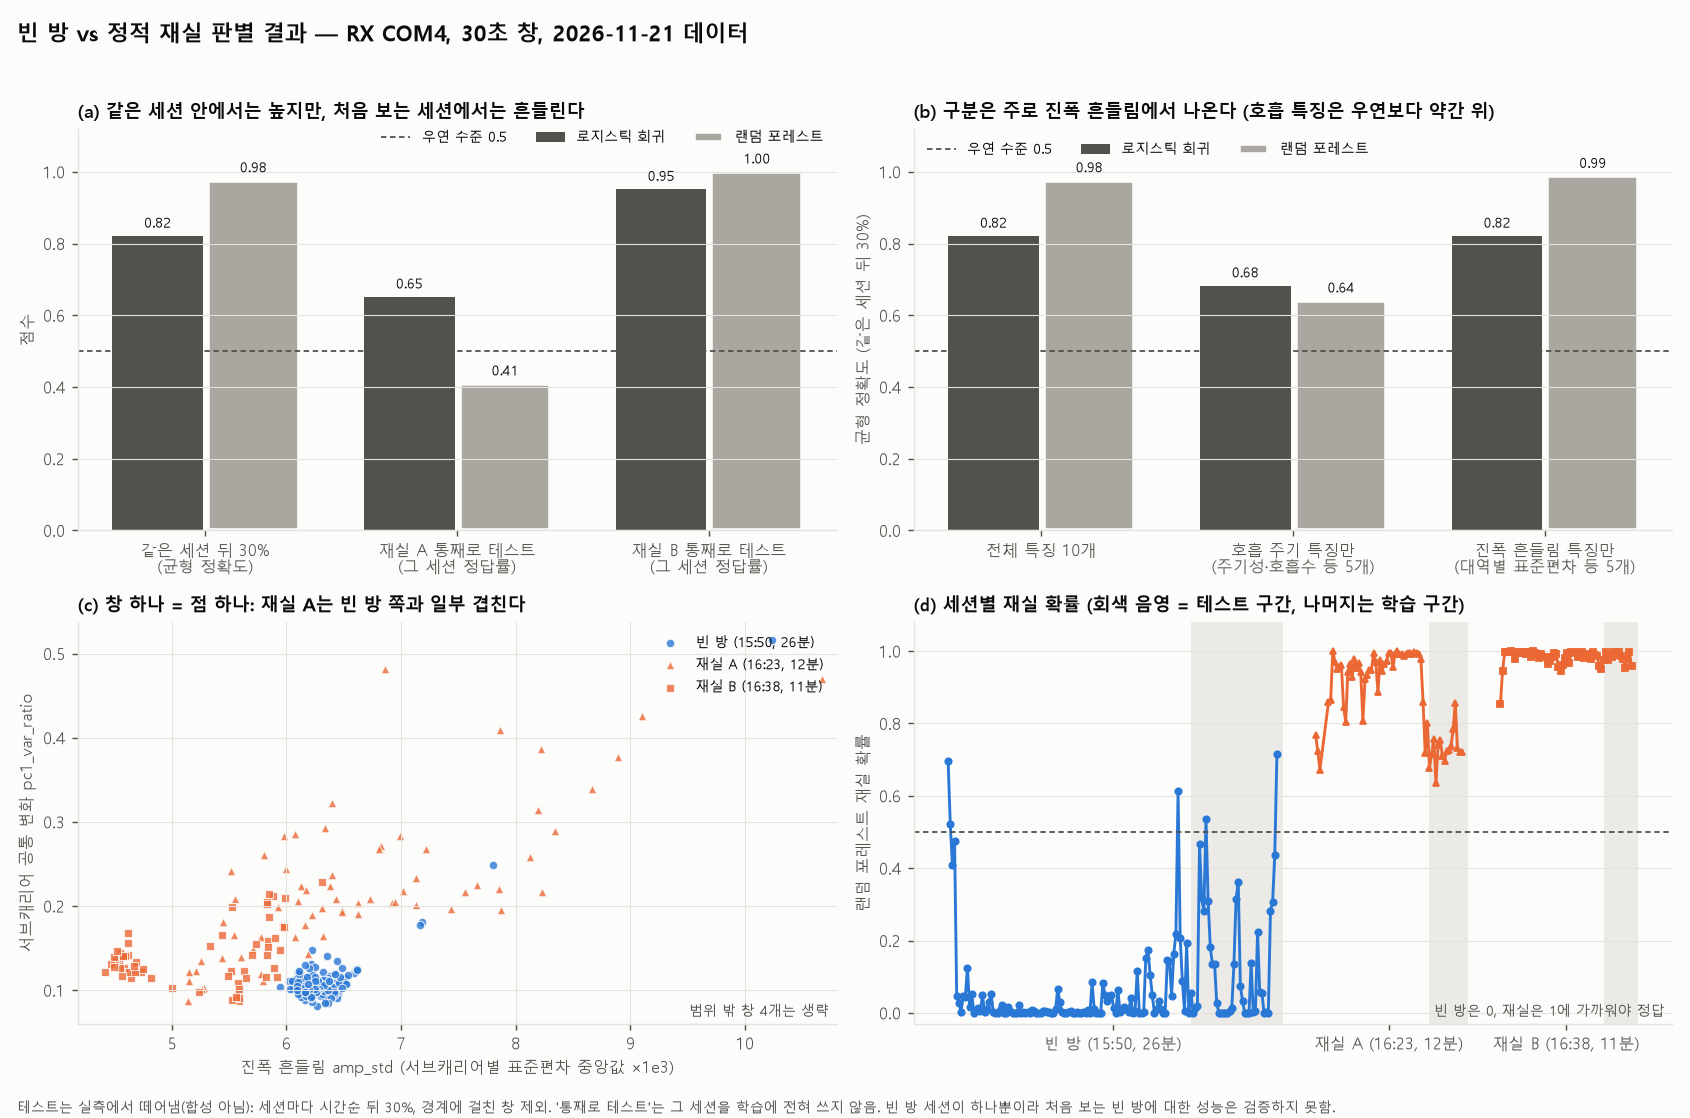
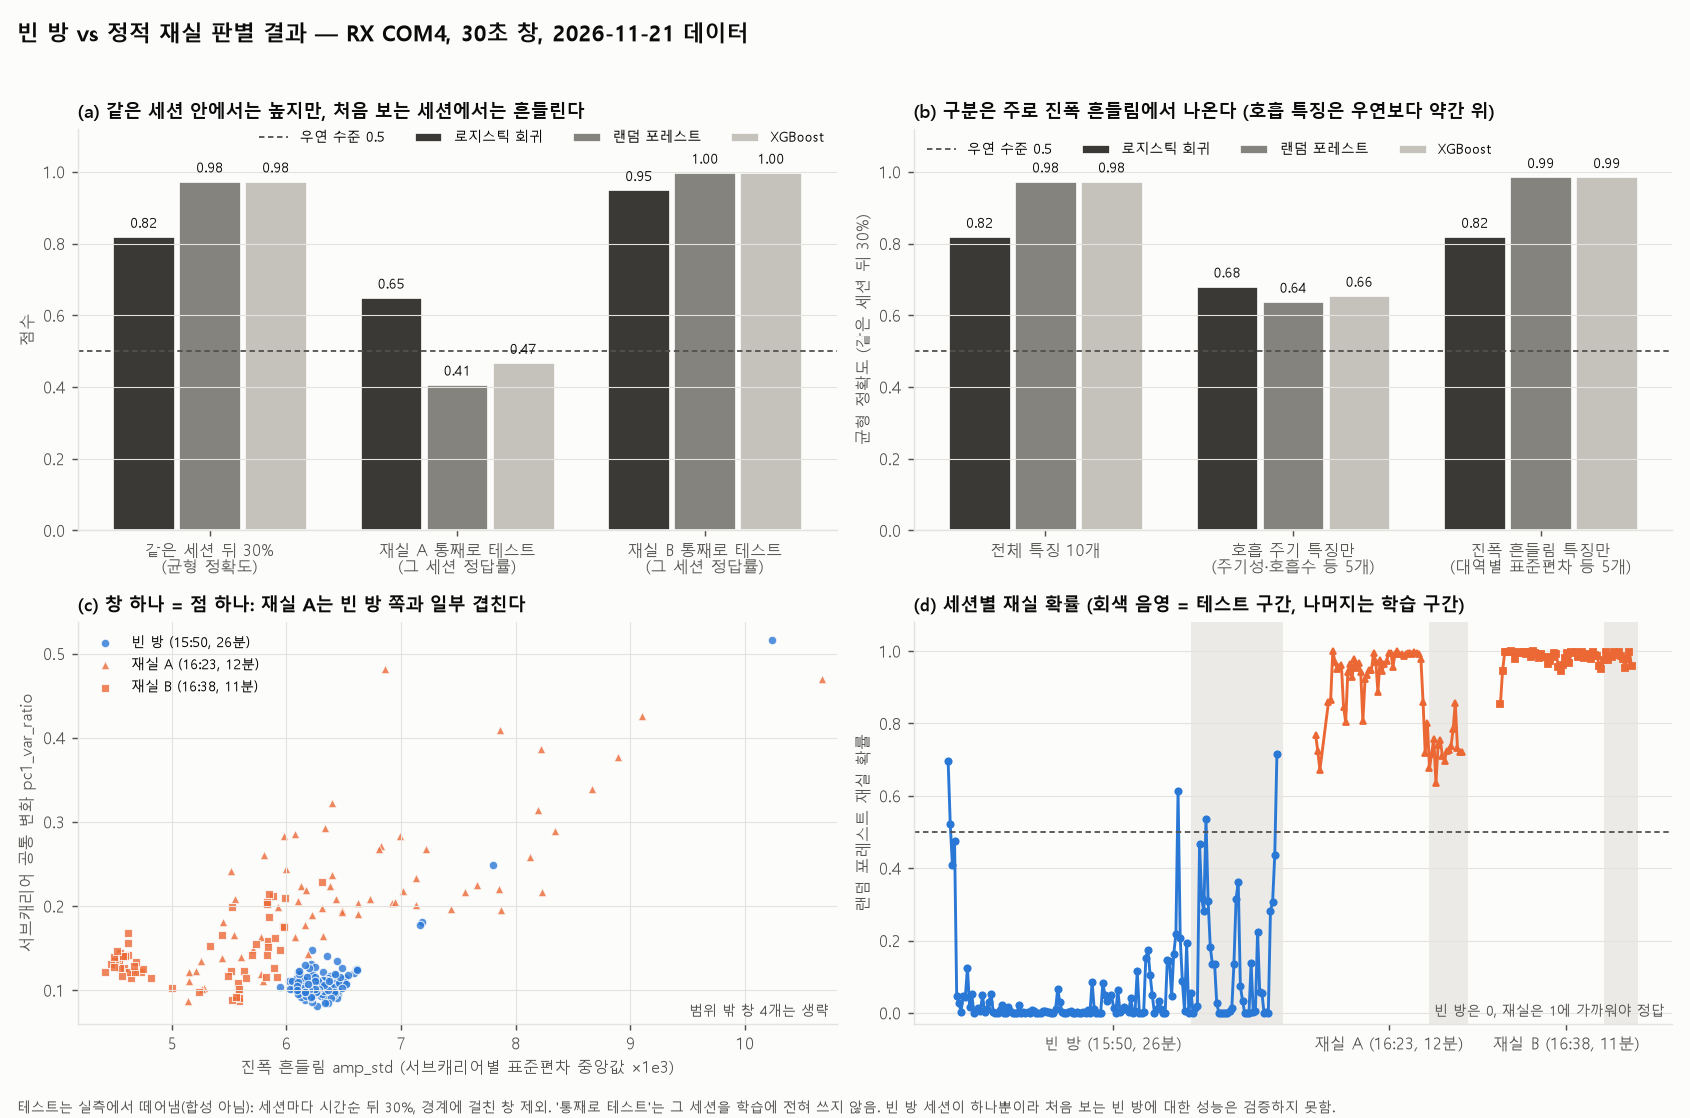
docs: 결과 그림 수정 (XGBoost 추가, 표기·범례 정리)
- model_results.png: (a)·(b)에 XGBoost 막대 추가(train.MODEL_KEYS 기준), (c) 범례를 빈 곳으로
- denoise_compare.png: 제목 RX 표기를 "(a)~(c) COM4, (d) COM5"로
- preprocess_compare.png: (d) 범례를 그래프 위로, (f) 좁은 칸 글자 제거하고 원본 라벨→클래스 대응을 축 이름에

diff --git a/pc/plot_results.py b/pc/plot_results.py
@@ -25,12 +25,13 @@ import pandas as pd
 from sklearn.metrics import balanced_accuracy_score
 
 from features import FEATURES
-from train import FEATURE_SETS, ROOT, models, temporal_split
+from train import FEATURE_SETS, MODEL_KEYS, ROOT, models, temporal_split
 
 # 팔레트 (dataviz 기본, light): 클래스 = slot1 blue(빈 방) / slot2 orange(재실). 모델은 잉크 명암으로 구분
 C_EMPTY, C_STATIC = "#2a78d6", "#eb6834"
 INK, INK2, GRID, SURF = "#0b0b0b", "#52514e", "#e4e3df", "#fcfcfb"
-C_LR, C_RF, C_BASE = "#52514e", "#a9a7a0", "#d6d4cd"
+# 모델 막대 색 (잉크 명암 3단계, 클래스 색과 겹치지 않게)
+MODEL_COLOR = {"로지스틱 회귀": "#3a3936", "랜덤 포레스트": "#85837d", "XGBoost": "#c4c2bb"}
 SESSION_NAME = {"20261121_155026": "빈 방 (15:50, 26분)",
                 "20261121_162338": "재실 A (16:23, 12분)",
                 "20261121_163812_breath": "재실 B (16:38, 11분)"}
@@ -65,7 +66,18 @@ def bar_labels(ax, bars, fmt="{:.2f}"):
     for b in bars:
         h = b.get_height()
         ax.text(b.get_x() + b.get_width() / 2, h + 0.015, fmt.format(h), ha="center", va="bottom",
-                fontsize=8, color=INK)
+                fontsize=7.5, color=INK)
+
+
+def grouped_bars(ax, vals: dict[str, list[float]], n_groups: int) -> None:
+    """모델별 막대를 그룹마다 나란히. 막대 사이 2px 표면색 간격, 값 라벨."""
+    k = len(vals)
+    w = 0.8 / k
+    x = np.arange(n_groups)
+    for j, (name, v) in enumerate(vals.items()):
+        b = ax.bar(x + (j - (k - 1) / 2) * w, v, w * 0.95, color=MODEL_COLOR.get(name, INK2), label=name,
+                   edgecolor=SURF, linewidth=1.5)
+        bar_labels(ax, b)
 
 
 def main() -> None:
@@ -88,7 +100,8 @@ def main() -> None:
         tr2, te2 = temporal_split(df, 0.3, [s])
         mm = fit(tr2, FEATURES)
         g = te2[te2.session == s]
-        held[s] = {n: recall(mm[n], g, FEATURES) for n in ("로지스틱 회귀", "랜덤 포레스트")}
+        held[s] = {n: recall(mm[n], g, FEATURES) for n in MODEL_KEYS if n in mm}
+    names_m = [n for n in MODEL_KEYS if n in m_all]           # 그릴 모델 (xgboost가 없으면 2개)
 
     fig, axes = plt.subplots(2, 2, figsize=(13, 8.6))
     fig.suptitle(f"빈 방 vs 정적 재실 판별 결과 — RX {a.rx}, {win:g}초 창, 2026-11-21 데이터",
@@ -97,40 +110,33 @@ def main() -> None:
     # (a) 평가 방식별
     ax = axes[0, 0]
     groups = ["같은 세션 뒤 30%\n(균형 정확도)", "재실 A 통째로 테스트\n(그 세션 정답률)", "재실 B 통째로 테스트\n(그 세션 정답률)"]
-    lr = [bal(m_all["로지스틱 회귀"], te, FEATURES), held["20261121_162338"]["로지스틱 회귀"],
-          held["20261121_163812_breath"]["로지스틱 회귀"]]
-    rf = [bal(m_all["랜덤 포레스트"], te, FEATURES), held["20261121_162338"]["랜덤 포레스트"],
-          held["20261121_163812_breath"]["랜덤 포레스트"]]
-    x = np.arange(3)
-    b1 = ax.bar(x - 0.19, lr, 0.36, color=C_LR, label="로지스틱 회귀")
-    b2 = ax.bar(x + 0.19, rf, 0.36, color=C_RF, label="랜덤 포레스트", edgecolor=SURF, linewidth=2)
-    bar_labels(ax, b1); bar_labels(ax, b2)
+    vals = {n: [bal(m_all[n], te, FEATURES), held["20261121_162338"][n], held["20261121_163812_breath"][n]]
+            for n in names_m}
+    grouped_bars(ax, vals, len(groups))
     ax.axhline(0.5, color=INK2, lw=1, ls=(0, (3, 2)), label="우연 수준 0.5")
-    ax.set_xticks(x, groups)
+    ax.set_xticks(np.arange(len(groups)), groups)
     ax.set_ylim(0, 1.12)
     ax.set_ylabel("점수")
     ax.set_title("(a) 같은 세션 안에서는 높지만, 처음 보는 세션에서는 흔들린다")
-    ax.legend(loc="upper right", fontsize=8, ncol=3, bbox_to_anchor=(1, 1.03))
+    ax.legend(loc="upper right", fontsize=8, ncol=4, bbox_to_anchor=(1, 1.03))
     ax.grid(axis="y", color=GRID, lw=0.6)
 
     # (b) 특징 묶음별
     ax = axes[0, 1]
     names = list(FEATURE_SETS)
-    lr_b, rf_b = [], []
+    vals = {n: [] for n in names_m}
     for nm in names:
         mm = fit(tr, FEATURE_SETS[nm])
-        lr_b.append(bal(mm["로지스틱 회귀"], te, FEATURE_SETS[nm]))
-        rf_b.append(bal(mm["랜덤 포레스트"], te, FEATURE_SETS[nm]))
+        for n in names_m:
+            vals[n].append(bal(mm[n], te, FEATURE_SETS[nm]))
     x = np.arange(len(names))
-    b1 = ax.bar(x - 0.19, lr_b, 0.36, color=C_LR, label="로지스틱 회귀")
-    b2 = ax.bar(x + 0.19, rf_b, 0.36, color=C_RF, label="랜덤 포레스트", edgecolor=SURF, linewidth=2)
-    bar_labels(ax, b1); bar_labels(ax, b2)
+    grouped_bars(ax, vals, len(names))
     ax.axhline(0.5, color=INK2, lw=1, ls=(0, (3, 2)), label="우연 수준 0.5")
     ax.set_xticks(x, ["전체 특징 10개", "호흡 주기 특징만\n(주기성·호흡수 등 5개)", "진폭 흔들림 특징만\n(대역별 표준편차 등 5개)"])
     ax.set_ylim(0, 1.12)
     ax.set_ylabel("균형 정확도 (같은 세션 뒤 30%)")
     ax.set_title("(b) 구분은 주로 진폭 흔들림에서 나온다 (호흡 특징은 우연보다 약간 위)")
-    ax.legend(loc="upper left", fontsize=8, ncol=3)
+    ax.legend(loc="upper left", fontsize=8, ncol=4)
     ax.grid(axis="y", color=GRID, lw=0.6)
 
     # (c) 창 분포
@@ -147,7 +153,7 @@ def main() -> None:
     ax.set_xlabel("진폭 흔들림 amp_std (서브캐리어별 표준편차 중앙값 ×1e3)")
     ax.set_ylabel("서브캐리어 공통 변화 pc1_var_ratio")
     ax.set_title("(c) 창 하나 = 점 하나: 재실 A는 빈 방 쪽과 일부 겹친다")
-    ax.legend(fontsize=8, loc="upper right")
+    ax.legend(fontsize=8, loc="upper left")
     ax.grid(color=GRID, lw=0.6)
 
     # (d) 시간에 따른 재실 확률

diff --git a/pc/plot_preprocess.py b/pc/plot_preprocess.py
@@ -140,7 +140,7 @@ def main() -> None:
     ax.set_title(f"(d) 패킷 전체 진폭: 세션 전체 변동계수 {cv:.1f}% → 0%")
     ax.set_ylabel("평균 대비 변화 (%)")
     ax.set_xlabel("시간 (초)")
-    ax.legend(fontsize=8, loc="upper right")
+    ax.legend(fontsize=8, loc="lower right", bbox_to_anchor=(1, 1.06), ncol=2)   # 그래프 위로 (선과 겹치지 않게)
     ax.grid(axis="y", color=GRID, lw=0.6)
 
     # (e) 시간축
@@ -163,11 +163,14 @@ def main() -> None:
     # (f) 라벨 정리
     ax = fig.add_subplot(gs[2, 1])
     raw_lab = df["label"].astype(str).to_numpy()
-    def bands(t, lab, y, h, color_of):
+    span = tp[-1] - tp[0]
+
+    def bands(t, lab, y, h, color_of, min_frac=0.07):
+        """구간 띠. 글자는 띠 폭이 전체의 min_frac 이상일 때만 (좁은 칸에 빽빽하게 쓰지 않음)."""
         chg = np.r_[0, np.where(lab[1:] != lab[:-1])[0] + 1, len(lab)]
         for s, e in zip(chg[:-1], chg[1:]):
             ax.add_patch(plt.Rectangle((t[s], y), t[e - 1] - t[s], h, color=color_of(lab[s]), lw=0))
-            if t[e - 1] - t[s] > 12:
+            if t[e - 1] - t[s] > min_frac * span:
                 ax.text((t[s] + t[e - 1]) / 2, y + h / 2, lab[s], ha="center", va="center", fontsize=7, color="w")
     cls_of_raw = lambda l: CLS_COLOR.get(CLASS_OF.get(normalize_label(l), ""), "#c9c7c0")
     bands(tr, raw_lab, 2.2, 0.8, cls_of_raw)
@@ -176,7 +179,11 @@ def main() -> None:
     bands(tp, np.where(v, "valid", "제외"), 0.0, 0.8, lambda s: INK2 if s == "valid" else "#e4e3df")
     ax.set_xlim(tp[0], tp[-1])
     ax.set_ylim(-0.1, 3.1)
-    ax.set_yticks([0.4, 1.5, 2.6], ["학습에 쓰는 구간\n(valid)", "전처리 후 클래스", "원본 라벨"])
+    # 원본 라벨 이름은 띠 안에 다 쓰기 어려워서 y축 이름에 색 대응을 적는다
+    raw_names = sorted(set(raw_lab), key=lambda l: list(raw_lab).index(l))
+    raw_map = " / ".join(f"{l}→{CLASS_OF.get(normalize_label(l), '없음')}" for l in raw_names)
+    ax.set_yticks([0.4, 1.5, 2.6], ["학습에 쓰는 구간\n(진회색 = valid)", "전처리 후 클래스",
+                                    f"원본 라벨\n({raw_map})"])
     ax.set_xlabel("시간 (초, 세션 전체)")
     ax.set_title(f"(f) 라벨 정리: 이름 통일 → 클래스, 경계 {proc['meta']['edge']:g}초·공백 제외 (유효 {100 * v.mean():.0f}%)")
     for s in ("left", "bottom"):

diff --git a/pc/plot_denoise.py b/pc/plot_denoise.py
@@ -79,7 +79,7 @@ for key, (path, lab) in sessions.items():
         res[(key, stage)] = (grid, A, sc, idx)
 
 fig, axes = plt.subplots(2, 2, figsize=(13, 8.2))
-fig.suptitle("CSI 노이즈 제거 전후 비교 — 이득 정규화 + Hampel 이상치 제거 (COM4, 2026-11-21)",
+fig.suptitle("CSI 노이즈 제거 전후 비교 — 이득 정규화 + Hampel 이상치 제거 ((a)~(c) COM4, (d) COM5 · 2026-11-21)",
              fontsize=12, fontweight="bold", color=INK, x=0.01, ha="left")
 
 # (a) 예시 파형
